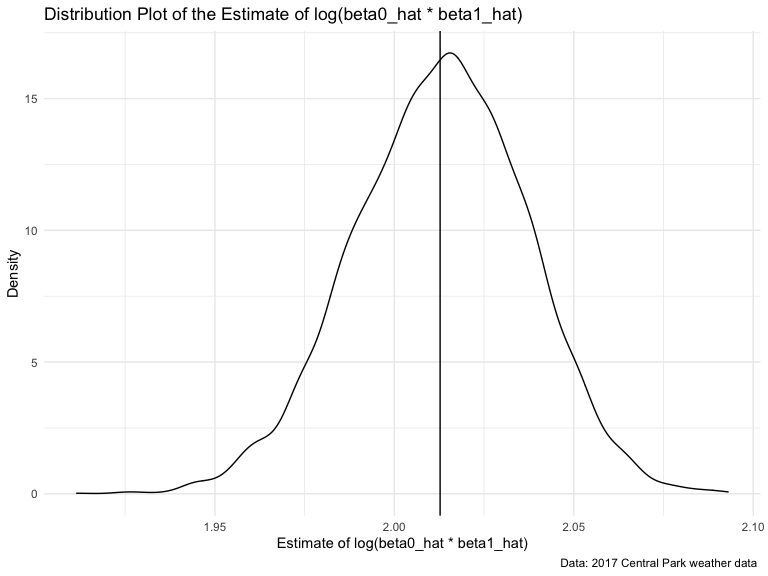
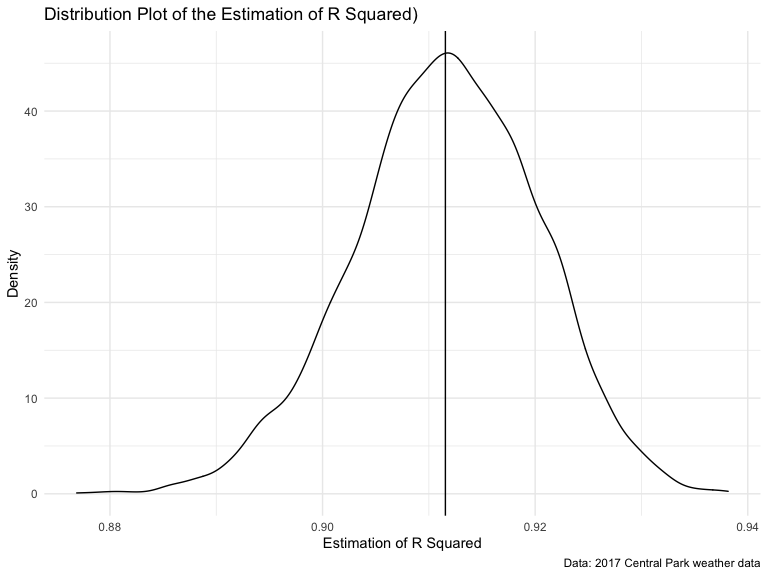
finalize the description

diff --git a/P8105_HW6_ys3295.md b/P8105_HW6_ys3295.md
@@ -1,7 +1,7 @@
 Homework 6
 ================
 Yan Song
-2020-12-05
+2020-12-08
 
 ### Due date
 
@@ -179,8 +179,20 @@ sum(is.na(birthweight))
     ## [1] 0
 
 I convert the babysex, malform, frace and mrace from numberic to factor
-and check for the missing value. There is no missing value in this
+and check for the missing value and there is no missing value in this
 dataset.
+
+``` r
+birthweight %>% 
+  ggplot(aes(x = bwt)) + 
+  geom_histogram()
+```
+
+    ## `stat_bin()` using `bins = 30`. Pick better value with `binwidth`.
+
+<img src="P8105_HW6_ys3295_files/figure-gfm/unnamed-chunk-6-1.png" width="90%" />
+For the outcome variable, the above plot shows that the birthweight is
+about normally distributed, so we will use linear regression.
 
 **Model Regression**
 
@@ -225,31 +237,30 @@ birthweight %>%
   )
 ```
 
-<img src="P8105_HW6_ys3295_files/figure-gfm/unnamed-chunk-6-1.png" width="90%" />
+<img src="P8105_HW6_ys3295_files/figure-gfm/unnamed-chunk-7-1.png" width="90%" />
 
 Modeling Process:
 
-I use bhead(baby’s head circumference at birth (cm)), blength(baby’s
-length at birth(cm)), delwt(mother’s weight at delivery(pounds)),
-gaweeks(gestational age in weeks) as predictors and use lm method to
-build this model\_0.
+  - I use bhead(baby’s head circumference at birth (cm)), blength(baby’s
+    length at birth(cm)), delwt(mother’s weight at delivery(pounds)),
+    gaweeks(gestational age in weeks) as predictors and use lm method to
+    build this model\_0.
 
-The model is
+  - The model is
+    \[bwt = -6249.5+135.8*bhead+79.145*blength+2.0*delwt+14.2*gaweeks\]
 
-\[bwt = -6249.5+135.8*bhead+79.145*blength+2.0*delwt+14.2*gaweeks\] We
-could see all the predictors are significant.
+  - We could see all the predictors are significant.Also, I create a
+    plot of model residuals against fitted values. From this figure, we
+    can see a heavy cluster in the lower right corner , with a tail
+    fanning out to the top left. This is not necessarily what we want to
+    see in this plot (which is a random scatter). Therefore,this model
+    is not that good.
 
-Also, I create a plot of model residuals against fittes values. From
-this graph, we see a heavy cluster in the lower right corner , with a
-tail fanning out to the top left. This is not necessarily what we want
-to see in this plot (which is a random scatter). That means this model
-is not so good.
-
-## Compare Models
+### Compare Models
 
 **Cross Validation**
 
-Should write 3 functions about 3 way to build models.
+Writing 3 functions about 3 way to build models.
 
 ``` r
 btw_model_0 = function(df){
@@ -295,10 +306,10 @@ cv_bwt =
          rmse_model2 = map2_dbl(btw_model2, test, ~rmse(model = .x, data = .y)))
 ```
 
-## Visualization
+### Visualization
 
-The plot below shows the distribution of RMSE values for each candidate
-model.
+The plot below shows the distribution of RMSE values for the candidate
+models.
 
 ``` r
 cv_bwt %>% 
@@ -317,15 +328,16 @@ cv_bwt %>%
     y = "Root Mean of Square Error")
 ```
 
-<img src="P8105_HW6_ys3295_files/figure-gfm/unnamed-chunk-9-1.png" width="90%" />
+<img src="P8105_HW6_ys3295_files/figure-gfm/unnamed-chunk-10-1.png" width="90%" />
 
-From the violin plot, we can find that the model(model 1) using length
-at birth and gestational age as predictors (main effects only) has the
-highest rmse, which means it doesn\`t fit well for test set. And the
-model (model 2) using head circumference, length, sex, and all
-interactions has the second highest rmse which is totally lower than
-that in model main effects only. Finally, the model 0 seems like has the
-lowest rmse and it is better than the other two models.
+  - From the violin plot, we can find that the model(model 1) using
+    length at birth and gestational age as predictors (main effects
+    only) has the highest rmse, which means it doesn\`t fit well for
+    test set.The model (model 2) using head circumference, length, sex,
+    and all interactions has the second highest rmse, which is totally
+    lower than that in model main effects only. Meanwhile, the model 0
+    seems like has the lowest rmse which means it is better than the
+    other two models.
 
 # Problem 3
 
@@ -370,7 +382,7 @@ bootstraps =
   unnest(results1, results2)
 ```
 
-**About r squared**
+**For R Squared**
 
 ``` r
 #The distribution of r-squared
@@ -378,28 +390,26 @@ bootstraps %>%
   ggplot(aes(x = r.squared)) + 
   geom_density() + 
   labs(
-    title = "Distribution Plot of the Estimate of r squared)",
-    x = "Estimate of r squared",
+    title = "Distribution Plot of the Estimation of R Squared)",
+    x = "Estimation of R Squared",
     y = "Density",
     caption = "Data: 2017 Central Park weather data"
   ) + 
   geom_vline(aes(xintercept = mean(r.squared)))
 ```
 
-<img src="P8105_HW6_ys3295_files/figure-gfm/unnamed-chunk-12-1.png" width="90%" />
+<img src="P8105_HW6_ys3295_files/figure-gfm/unnamed-chunk-13-1.png" width="90%" />
 
 ``` r
 r_squared = pull(bootstraps,r.squared)
 ci_of_r2 = quantile(r_squared,c(0.025, 0.975))
 ```
 
-From the distribution plot of R square, we may find it is close to a
-normal distribution, and the black line is the mean.
+  - From the distribution plot of R square, we may find it is close to a
+    normal distribution, and the black line is the mean.And the 95%
+    confidence interval for r-squared is \[0.8938343, 0.9275407\].
 
-And the 95% confidence interval for r-squared is \[0.8938343,
-0.9275407\].
-
-**About log(beta0 x beta1)**
+**For log(beta0 x beta1)**
 
 ``` r
 beta = 
@@ -422,7 +432,7 @@ beta %>%
   ggplot(aes(x = logb0_b1)) + 
   geom_density() + 
   labs(
-    title = "Distribution Plot of the Estimate of log(beta0_hat * beta1_hat)",
+    title = "Distribution Plot of the Estimation of log(beta0_hat * beta1_hat)",
     x = "Estimate of log(beta0_hat * beta1_hat)",
     y = "Density",
     caption = "Data: 2017 Central Park weather data "
@@ -430,14 +440,12 @@ beta %>%
   geom_vline(aes(xintercept = mean(logb0_b1)))
 ```
 
-<img src="P8105_HW6_ys3295_files/figure-gfm/unnamed-chunk-13-1.png" width="90%" />
+<img src="P8105_HW6_ys3295_files/figure-gfm/unnamed-chunk-14-1.png" width="90%" />
 
 ``` r
 ci_of_log = quantile(pull(beta,logb0_b1),c(0.025, 0.975))
 ```
 
-We may find it is also close to a normal distribution, and the black
-line is the mean.
-
-We could see the 95% confidence interval for log(beta0\*beta1) is
-\[1.9634567, 2.0574665\].
+  - We find it is close to a normal distribution, and the black line is
+    the mean.And the 95% confidence interval for log(beta0\*beta1) is
+    \[1.9634567, 2.0574665\].
